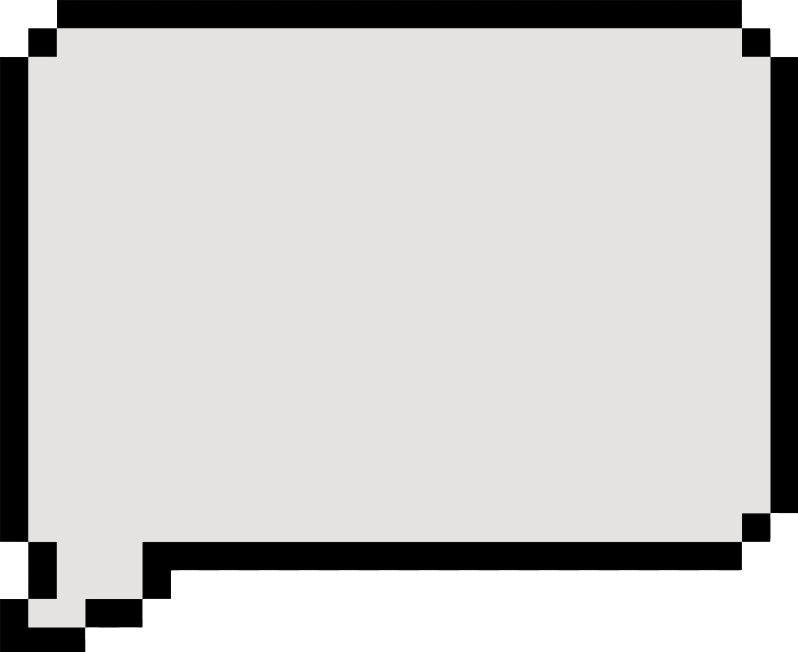
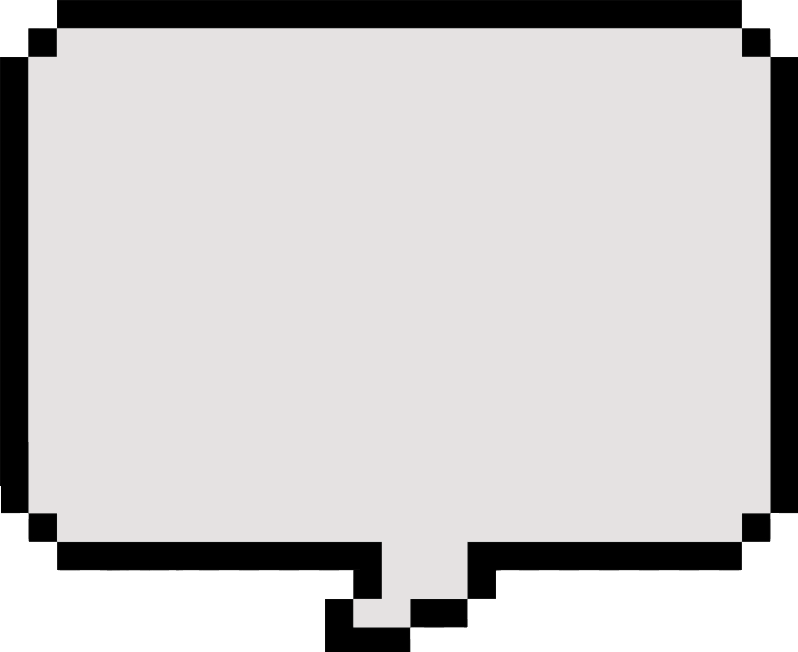
(+) remake dialog for quests

Changed region(s): [[0.0, 0.7669, 0.2406, 1.0], [0.391, 0.8282, 0.6316, 1.0]]

diff --git a/src/gameplay/quests/q_soldiers.c b/src/gameplay/quests/q_soldiers.c
@@ -7,40 +7,42 @@
 
 #include "../../../include/rpg.h"
 
-sfBool check_collision_npc(rpg_t *rpg)
+int get_size_file(char *path)
 {
-    sfFloatRect player = sfSprite_getGlobalBounds(rpg->spritesheet[rpg->player_stats.skin].sprite);
-    sfFloatRect npc = sfSprite_getGlobalBounds(rpg->spritesheet[SP_NPC_SOLDIER].sprite);
+    struct stat stats;
 
-    npc.left += 15;
-    npc.width += 15;
-    npc.height += 15;
-    npc.top += 15;
-    return (sfFloatRect_intersects(&player, &npc, NULL));
+    stat(path, &stats);
+    return (stats.st_size);
+}
+
+int get_chat_into_file(char* filepath, int quest, rpg_t *rpg)
+{
+    char *lineptr;
+    FILE *fd;
+    size_t n = 0;
+
+    fd = fopen(filepath, "r");
+    if (!fd)
+        return (84);
+    for (int i = 0; i < rpg->quest[quest].step; ++i)
+        getline(&lineptr, &n, fd);
+    rpg->quest[quest].speaker = (lineptr[0] == 'N');
+    printf("buffer:%s\n", lineptr+2);
+    fclose(fd);
+    free(lineptr);
+    return (-1);
 }
 
 void send_chat_bubble_soldiers(sfRenderWindow *window, rpg_t *rpg)
 {
-    if (rpg->quest[QUEST_SOLDIER].step == -1
-    || rpg->quest[QUEST_SOLDIER].step == 0)
+    if (rpg->quest[QUEST_SOLDIER].step <= 0)
         return;
-    switch (rpg->quest[QUEST_SOLDIER].step) {
-    case 1:
-        write_text(window, rpg->quest[QUEST_SOLDIER].npc, "Bien le bonjour !\n Que veux tu ?");
-        break;
-    case 2:
-        write_text(window, rpg->quest[QUEST_SOLDIER].player, "Moi vouloir épée");
-        break;
-    case 3:
-        write_text(window, rpg->quest[QUEST_SOLDIER].npc,
-        "Si toi vouloir, moi vouloir\npoisson. Va donc voler\nla canne a peche\na la prison pour pecher.");
-        break;
-    default:
-        break;
-    }
-    if (get_clock_time(rpg->quest[QUEST_SOLDIER].clock_chat) >= 10000000) {
+    if (get_clock_time(rpg->quest[QUEST_SOLDIER].clock_chat) >= 6000000) {
+        if (!get_chat_into_file("assets/quest_dialog/soldiers", QUEST_SOLDIER, rpg))
+            rpg->quest[QUEST_SOLDIER].step = -1;
         ++rpg->quest[QUEST_SOLDIER].step;
-        // printf("RRR\n");
+        sfSprite_scale(rpg->spritesheet[SP_BUBBLE_CHAT].sprite,
+        (sfVector2f){-1.f, 1.f});
         sfClock_restart(rpg->quest[QUEST_SOLDIER].clock_chat);
     }
 }
@@ -49,6 +51,8 @@ void quest_soldiers(rpg_t *rpg)
 {
     rpg->quest[QUEST_SOLDIER].clock_chat = sfClock_create();
     rpg->spritesheet[SP_BUBBLE_CHAT].active = true;
-    if (rpg->quest[QUEST_SOLDIER].step == 0)
+    if (rpg->quest[QUEST_SOLDIER].step == 0) {
         rpg->quest[QUEST_SOLDIER].step = 1;
+        get_chat_into_file("assets/quest_dialog/soldiers", QUEST_SOLDIER, rpg);
+    }
 }

diff --git a/src/gameplay/animate_boss.c b/src/gameplay/animate_boss.c
@@ -73,7 +73,8 @@ void ia_boss_rush_to_player(rpg_t *rpg)
 void ia_boss(rpg_t *rpg)
 {
     float time_movement = get_clock_time(rpg->boss_stats.movement);
-    float time_attack = get_clock_time(rpg->spritesheet[SP_BOSS_EXECUTIONER].c_attack);
+    float time_attack =
+    get_clock_time(rpg->spritesheet[SP_BOSS_EXECUTIONER].c_attack);
     float time_last_damage = get_clock_time(rpg->player_stats.last_damage);
     int random = 0;
 
@@ -104,7 +105,8 @@ void animate_boss(rpg_t *rpg)
         rpg->boss_stats.status = ST_DIE;
         if (rpg->spritesheet[SP_BOSS_EXECUTIONER].rect.left >= 2000) {
             toggle_spritesheet_scene(rpg, false, screen_grotte, SC_GROTTE);
-            toggle_spritesheet_scene(rpg, true, screen_victory_grotte, SP_BACKGROUND_VICRORY_GROTTE);
+            toggle_spritesheet_scene(rpg, true,
+            screen_victory_grotte, SP_BACKGROUND_VICRORY_GROTTE);
         }
     }
     else

diff --git a/include/rpg.h b/include/rpg.h
@@ -13,9 +13,9 @@
     #include "struct.h"
     #define RADIAN(x) x * 3.14159265359 / 180
     #define FUNCTIONS_BUTTONS {nothing, nothing, nothing, nothing, nothing, \
-    nothing, nothing, how_play, quest_soldiers, nothing, skin_blue, skin_brown, skin_cyan,  \
-    skin_green, skin_grey, skin_pink, skin_red, skin_yellow, nothing, nothing, \
-    nothing, nothing, launch_game, quit_game,   \
+    nothing, nothing, how_play, quest_soldiers, nothing, skin_blue, \
+    skin_brown, skin_cyan, skin_green, skin_grey, skin_pink, skin_red, \
+    skin_yellow, nothing, nothing, nothing, nothing, launch_game, quit_game, \
     display_custom_skins, back_button, button_next_grotte, nothing, \
     nothing, nothing, nothing, nothing, nothing, nothing, nothing, nothing, \
     nothing, nothing, nothing, nothing, nothing, nothing, nothing, nothing, \

diff --git a/src/gameplay/quests/utils_quest.c b/src/gameplay/quests/utils_quest.c
@@ -1,0 +1,31 @@
+/*
+** EPITECH PROJECT, 2021
+** my_rpg
+** File description:
+** utils_quest.c
+*/
+
+#include "../../../include/rpg.h"
+
+sfBool check_collision_npc(rpg_t *rpg)
+{
+    sfFloatRect player =
+    sfSprite_getGlobalBounds(rpg->spritesheet[rpg->player_stats.skin].sprite);
+    sfFloatRect npc =
+    sfSprite_getGlobalBounds(rpg->spritesheet[SP_NPC_SOLDIER].sprite);
+
+    npc.left += 15;
+    npc.width += 15;
+    npc.height += 15;
+    npc.top += 15;
+    return (sfFloatRect_intersects(&player, &npc, NULL));
+}
+
+void disable_quests(rpg_t *rpg, int quests_enum, bool scale)
+{
+    rpg->quest[quests_enum].step = -1;
+    rpg->spritesheet[SP_BUBBLE_CHAT].active = false;
+    if (scale)
+        sfSprite_scale(rpg->spritesheet[SP_BUBBLE_CHAT].sprite,
+        (sfVector2f){-1.f,1.f});
+}

diff --git a/src/init/init_screens.c b/src/init/init_screens.c
@@ -13,7 +13,8 @@ const int screen_custom[] = {SP_BACKGROUND_SC_MENU, SP_PLAYER_BLUE,
 SP_PLAYER_BROWN, SP_PLAYER_CYAN, SP_PLAYER_GREEN, SP_PLAYER_GREY,
 SP_PLAYER_PINK, SP_PLAYER_RED, SP_PLAYER_YELLOW, SP_PLAY, SP_CURSOR, -1};
 const int screen_game[] = {SP_BACKGROUND_SC_MAIN_MAP, SELECTED_PLAYER, -1};
-const int screen_base[] = {SP_BACKGROUND_SC_BASE, SELECTED_PLAYER, SP_CURSOR, SP_NPC_SOLDIER, -1};
+const int screen_base[] = {SP_BACKGROUND_SC_BASE, SELECTED_PLAYER, SP_CURSOR,   \
+                            SP_NPC_SOLDIER, -1};
 const int screen_jail[] = {SP_BACKGROUND_JAIL, SELECTED_PLAYER, SP_CURSOR, -1};
 const int screen_grotte[] = {SP_BACKGROUND_GROTTE, SELECTED_PLAYER,
 SP_BOSS_EXECUTIONER, SP_LIFE_BAR_BOX, SP_LIFE_BAR, SP_LIFE_BAR_BOX_BOSS,

diff --git a/src/init/init_quests.c b/src/init/init_quests.c
@@ -10,11 +10,8 @@
 void init_quests(rpg_t *rpg)
 {
     rpg->quest = malloc(sizeof(quest_t) * NBR_QUEST);
-    rpg->quest[QUEST_SOLDIER] = (quest_t) {.step = 0, .finished = false};
-    rpg->quest[QUEST_SOLDIER].npc =
+    rpg->quest[QUEST_SOLDIER] = (quest_t) {.step = 0, };
+    rpg->quest[QUEST_SOLDIER].dialog =
     create_text((init_text_t){30,"\0", sfBlack,
-    {855, 785}, "assets/fonts/NotoSerif-Regular.ttf"});
-    rpg->quest[QUEST_SOLDIER].player =
-    create_text((init_text_t){30,"\0", sfBlack,
-    {800, 800}, "assets/fonts/NotoSerif-Regular.ttf"});
+    {825, 765}, "assets/fonts/NotoSerif-Regular.ttf"});
 }

diff --git a/src/draw_all.c b/src/draw_all.c
@@ -22,7 +22,8 @@ sfIntRect rect)
 static void draw_spritesheets(beginning_t *begin, spritesheet_t *spritesheet)
 {
     sfVector2i po = sfMouse_getPositionRenderWindow(begin->window);
-    spritesheet[SP_CURSOR].pos = sfRenderWindow_mapPixelToCoords(begin->window, po, begin->view.view);
+    spritesheet[SP_CURSOR].pos =
+    sfRenderWindow_mapPixelToCoords(begin->window, po, begin->view.view);
     for (int i = 0; i < NBR_SP; ++i)
         if (spritesheet[i].active)
             draw_one_sprite(begin, spritesheet[i].sprite, spritesheet[i].rect,

diff --git a/src/spritesheets/init_spritesheets_quests.c b/src/spritesheets/init_spritesheets_quests.c
@@ -10,6 +10,6 @@
 void init_spritesheets_quests(spritesheet_t *spritesheet)
 {
     set_one_sprite("assets/img/bubble_chat.png",
-    &spritesheet[SP_BUBBLE_CHAT], (init_sprite_t){{890, 810},
-    {0.1, 0.1}, {0, 0, 798, 652}, false, false, .change_sprite_on_mouse = false});
+    &spritesheet[SP_BUBBLE_CHAT], (init_sprite_t){{860, 790},
+    {0.1, 0.1}, {0, 0, 798, 652}, false, false, false});
 }

diff --git a/include/protos.h b/include/protos.h
@@ -134,6 +134,8 @@ void manage_inventory(rpg_t *rpg);
 
 //quests
 void quest_soldiers(rpg_t *rpg);
+void disable_quests(rpg_t *rpg, int quests_enum, bool scale);
+sfBool check_collision_npc(rpg_t *rpg);
 void send_chat_bubble_soldiers(sfRenderWindow *window, rpg_t *rpg);
 
 // gameplay

diff --git a/include/struct.h b/include/struct.h
@@ -153,11 +153,10 @@ typedef struct {
 } boss_stats_t;
 
 typedef struct {
-    sfText *npc;
-    sfText *player;
-    sfClock *clock_chat;
     int step;
-    bool finished;
+    sfText *dialog;
+    sfClock *clock_chat;
+    bool speaker;
 } quest_t;
 
 typedef struct {

diff --git a/src/interface/button_menu.c b/src/interface/button_menu.c
@@ -21,4 +21,3 @@ void quit_game(rpg_t *rpg)
 {
     my_exit(rpg);
 }
-
